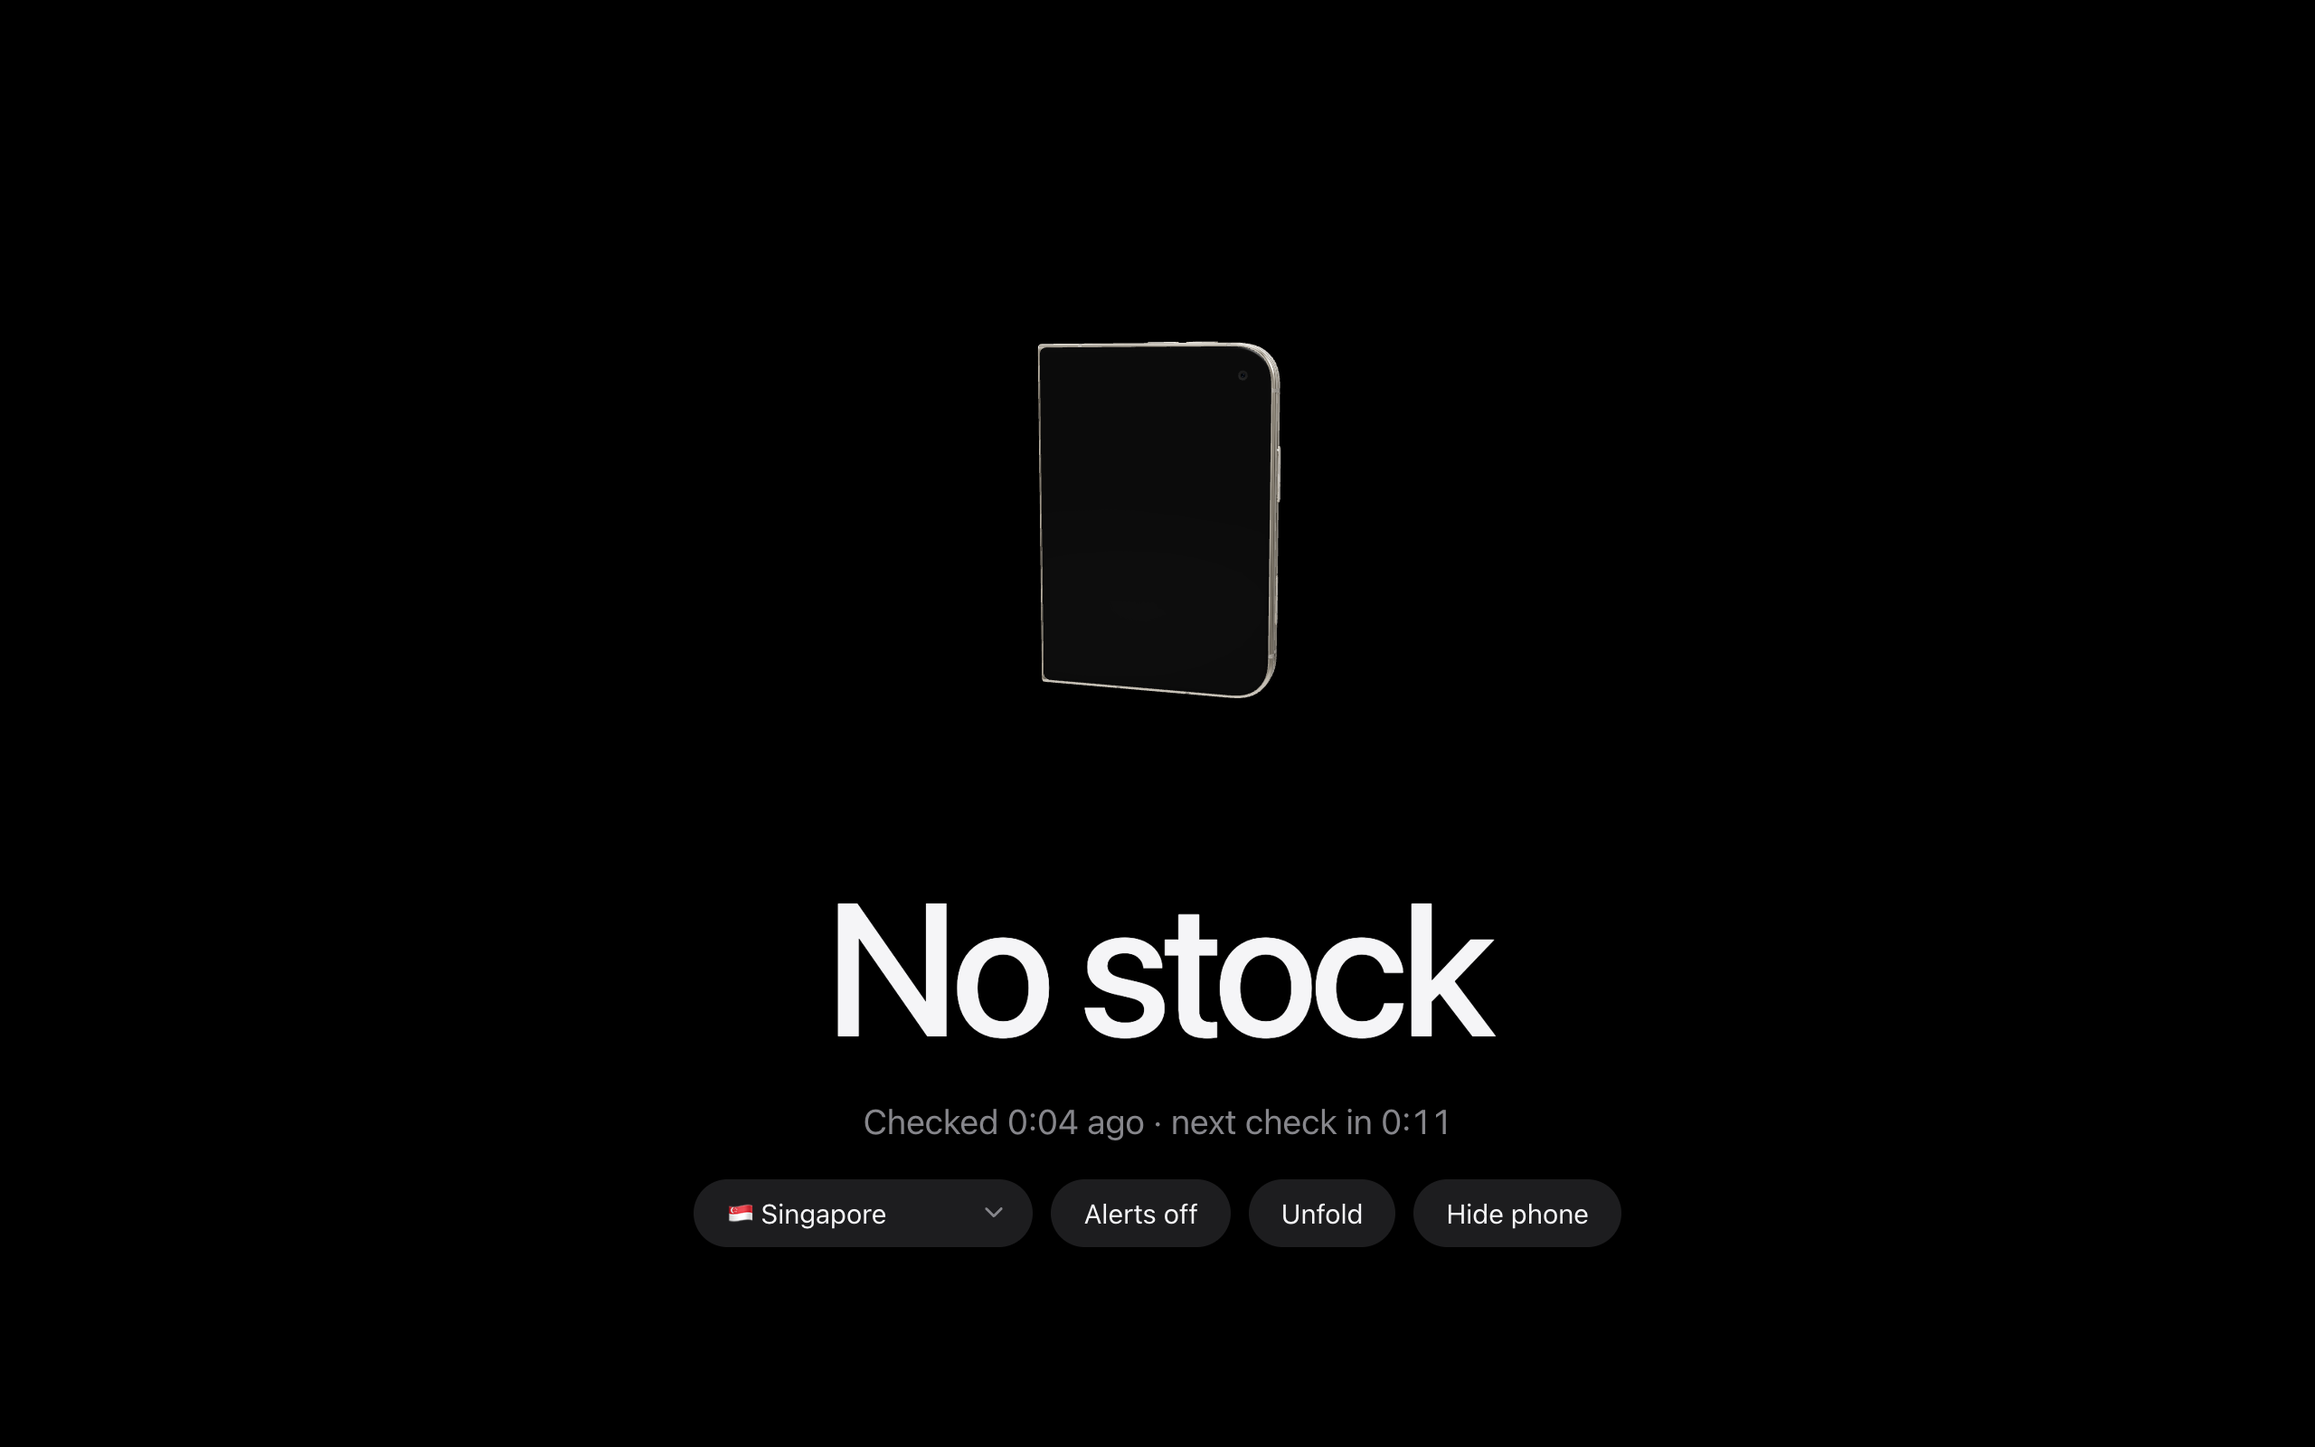
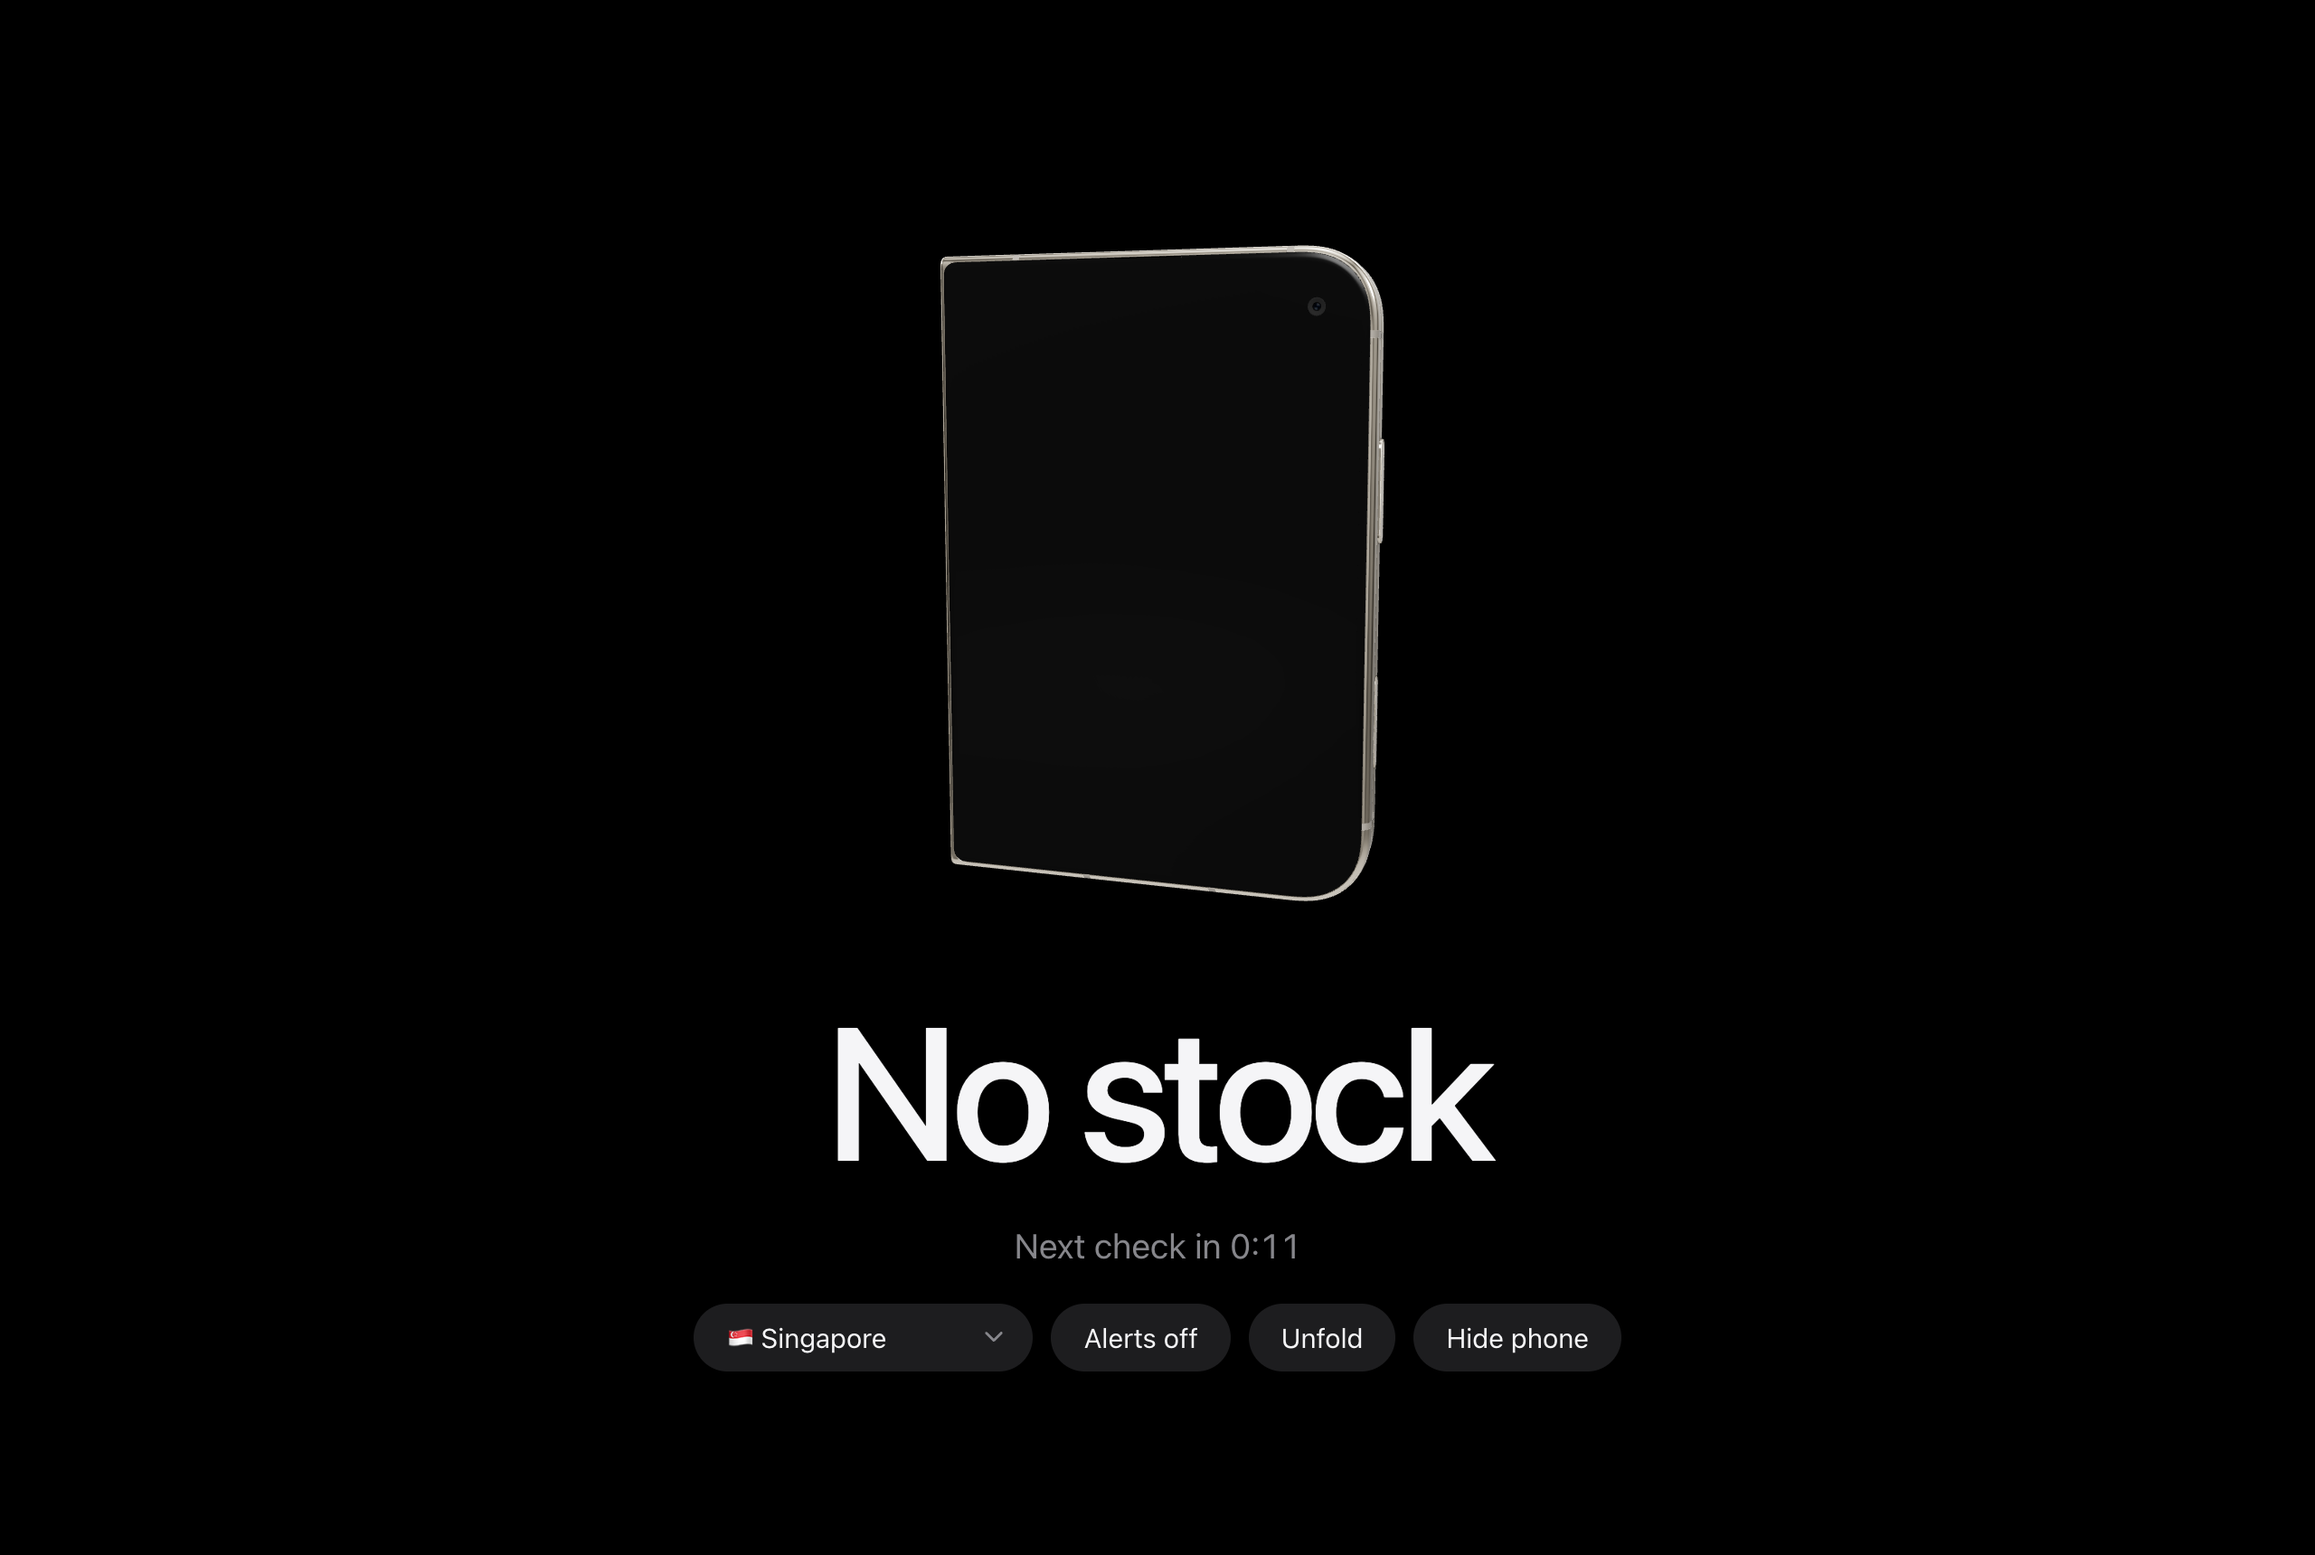
Make the phone larger and show only the next-check countdown

Changed region(s): [[0.2812, 0.625, 0.7188, 0.9062], [0.4062, 0.1562, 0.625, 0.5938], [0.4062, 0.5312, 0.4375, 0.5625]]

diff --git a/index.html b/index.html
@@ -49,7 +49,7 @@
   button[aria-pressed="true"] { background: var(--accent); color: var(--on-accent); }
   button:focus-visible, a:focus-visible, select:focus-visible, input:focus-visible { outline: 2px solid var(--accent); outline-offset: 3px; }
   /* Optional 3D phone, in its own block above the text. Drag to turn it, scroll to zoom. */
-  #bg { display: block; width: 100%; height: min(44vh, 420px); cursor: grab; touch-action: none; outline: none; }
+  #bg { display: block; width: 100%; height: min(50vh, 520px); cursor: grab; touch-action: none; outline: none; }
   #bg:active { cursor: grabbing; }
   body.phone h1 { font-size: clamp(44px, 10vw, 104px); }
   body.phone main { gap: 18px; }
@@ -136,9 +136,8 @@
       const left = Math.max(0, Math.round((state.nextAt - now) / 1000));
       sub.textContent = left ? "Next try in " + clock(left) : "Trying now";
     } else if (state.checkedAt) {
-      const ago = Math.max(0, Math.round((now - state.checkedAt) / 1000));
       const left = Math.max(0, Math.round((state.nextAt - now) / 1000));
-      sub.textContent = "Checked " + clock(ago) + " ago \u00b7 " + (left ? "next check in " + clock(left) : "checking now");
+      sub.textContent = left ? "Next check in " + clock(left) : "Checking now";
     } else sub.textContent = "";
   }
 
@@ -309,12 +308,12 @@ try {
   const phone = foldable(THREE, await new USDLoader().loadAsync("/model/duo.usdz"));
   scene.add(phone.group);
   const reach = phone.width;
-  camera.position.set(reach * 0.75, reach * 0.3, reach * 2.3);
+  camera.position.set(reach * 0.5, reach * 0.2, reach * 1.55); // close enough that the phone nearly fills the block
 
   const controls = new OrbitControls(camera, canvas);
   controls.enablePan = false;
   controls.enableDamping = true;
-  controls.minDistance = reach * 1.2;
+  controls.minDistance = reach * 0.9;
   controls.maxDistance = reach * 5;
   const calm = window.matchMedia("(prefers-reduced-motion: reduce)").matches;
   controls.autoRotate = !calm;
